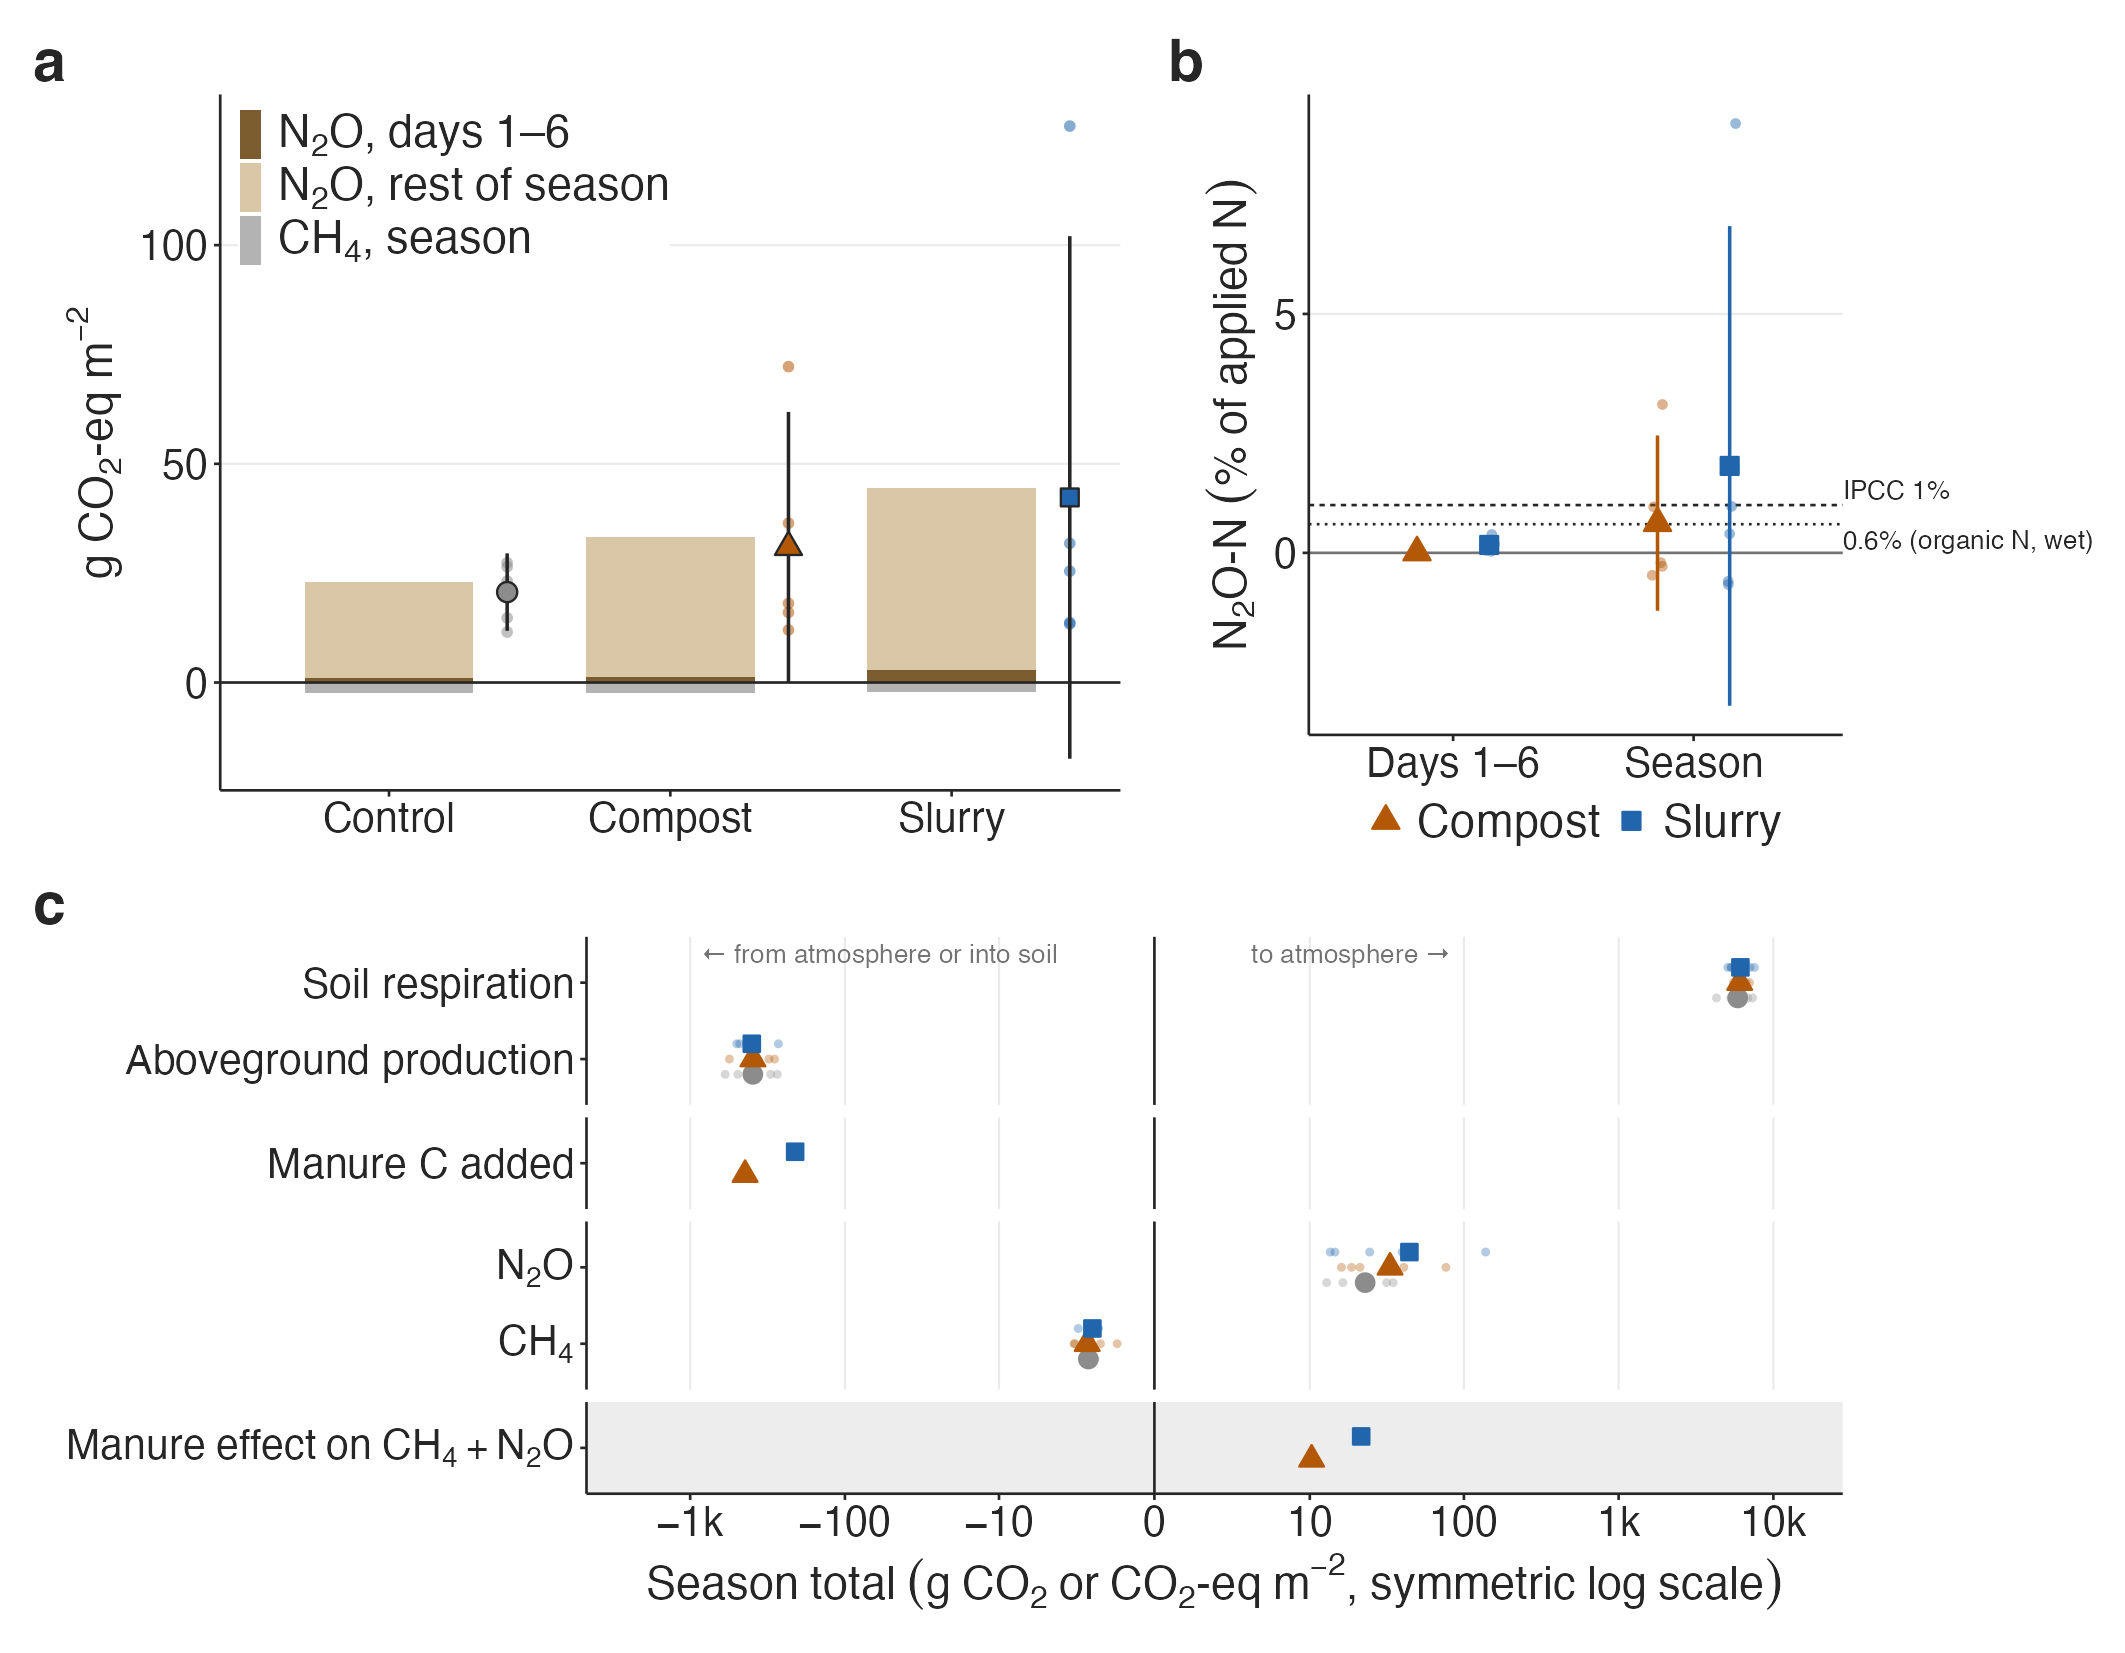
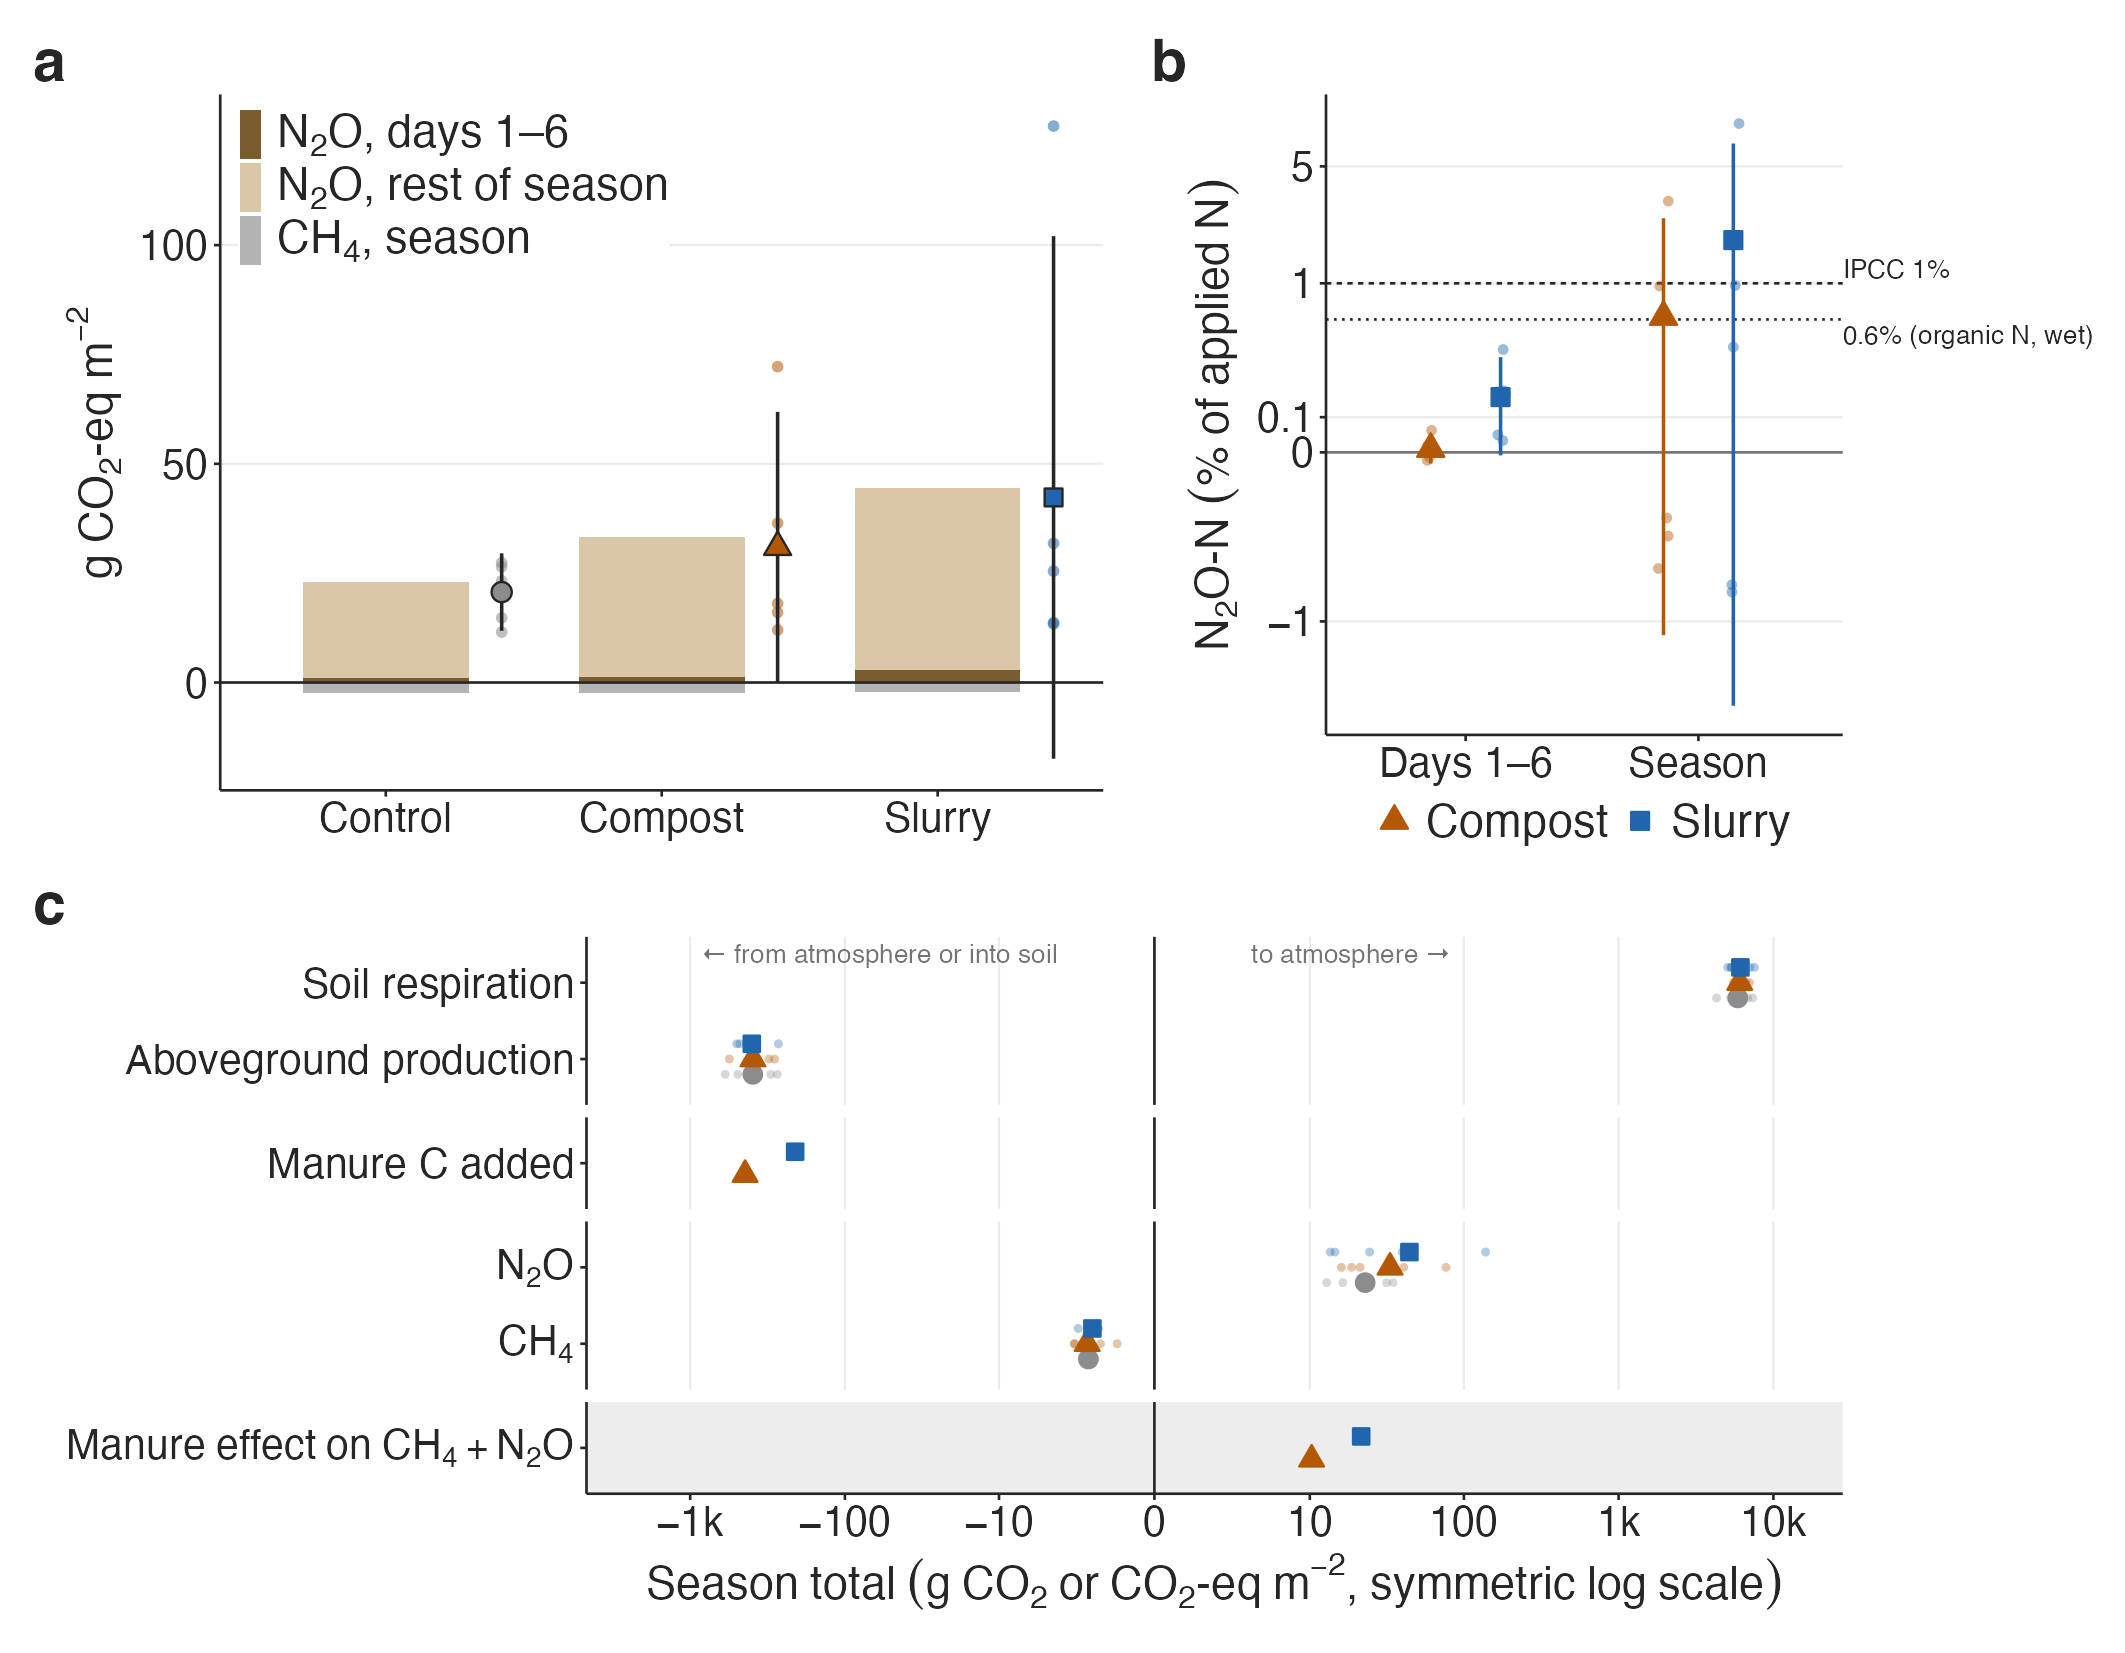
Fig 6b: symmetric log axis to separate small first-week emission factors

diff --git a/output/figures/captions.md b/output/figures/captions.md
@@ -42,7 +42,7 @@ The grey band marks |g| < 0.8, the conventional "large" effect threshold. With n
 **Figure 6. Non-CO2 greenhouse-gas budget.**
 All values are in CO2-equivalents (GWP100, IPCC AR6: CH4 27.0, N2O 273), from plot-level trapezoid totals for 29 May–14 Oct.
 (a) Season budget per treatment. Bars are component means: CH4 uptake, N2O in days 1–6, and N2O over the rest of the season. Small points are net CH4 + N2O per plot; large symbols are the treatment mean ± 95% CI.
-(b) N2O emission factor: amendment-attributable N2O-N (plot minus control mean) as % of the N applied (slurry 2.75, compost 3.87 g N m−2), for days 1–6 and the season. Reference lines are the IPCC 2019 EF1 aggregate default (1%) and the value for organic N inputs in wet climates (0.6%).
+(b) N2O emission factor: amendment-attributable N2O-N (plot minus control mean) as % of the N applied (slurry 2.75, compost 3.87 g N m−2), for days 1–6 and the season, on a symmetric log axis. Reference lines are the IPCC 2019 EF1 aggregate default (1%) and the value for organic N inputs in wet climates (0.6%).
 (c) Season totals for scale, in g CO2 or CO2-eq m−2 on a symmetric log axis (positive = to the atmosphere; negative = from the atmosphere or into soil). Rows are grouped so nothing is double counted: CO2 exchange, manure C added, the CH4 and N2O components, and, shaded, the manure effect on CH4 + N2O (amendment minus control mean), which is already contained in the CH4 and N2O rows. Terms are not additive: the carbon balance was not closed, and soil respiration includes respiration of manure-derived C.
 - **Soil respiration:** from the clipped collars, so roots plus microbes. It is integrated from daytime closures (10:00–17:00), so it is likely biased high compared with a 24-h total.
 - **Aboveground production:** the October harvest of the 0.5 m² subplot left uncut since the pre-experiment mow, assuming C = 47% of dry mass (IPCC 2006 default for herbaceous biomass).
